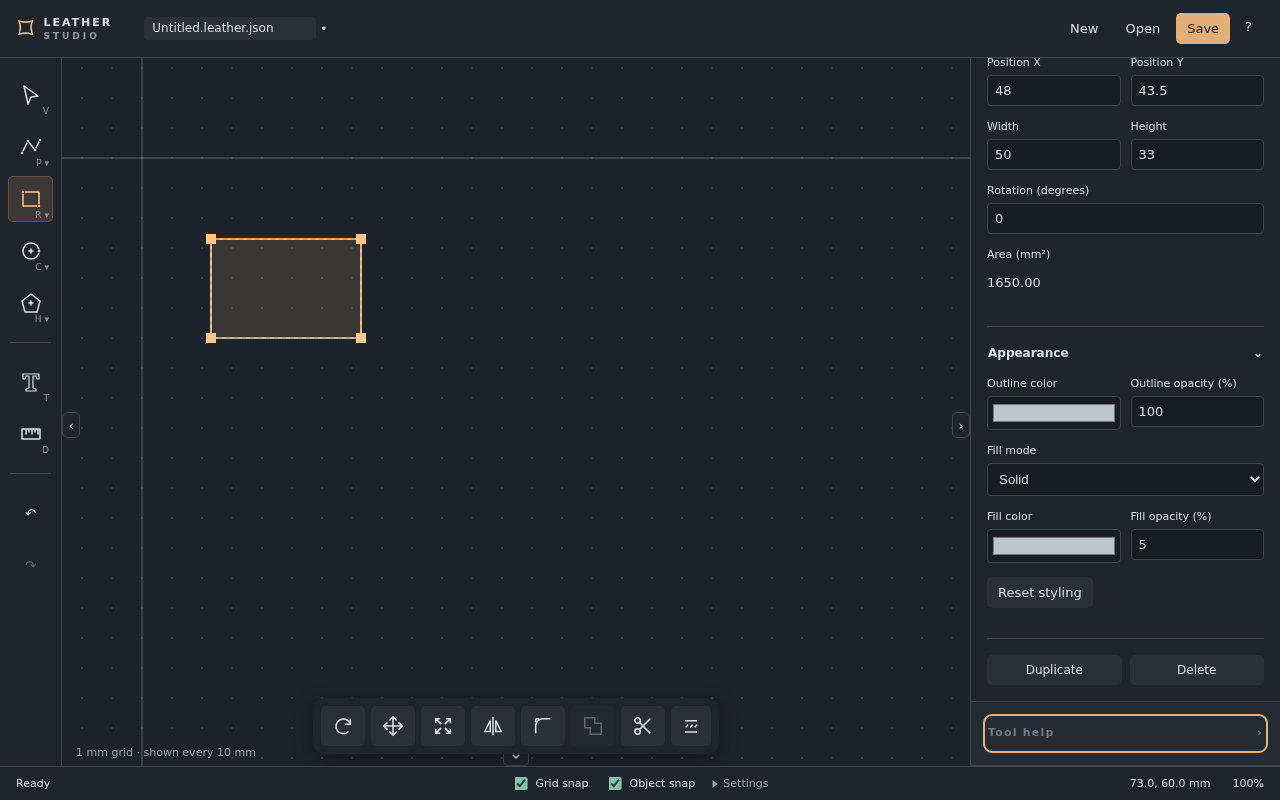
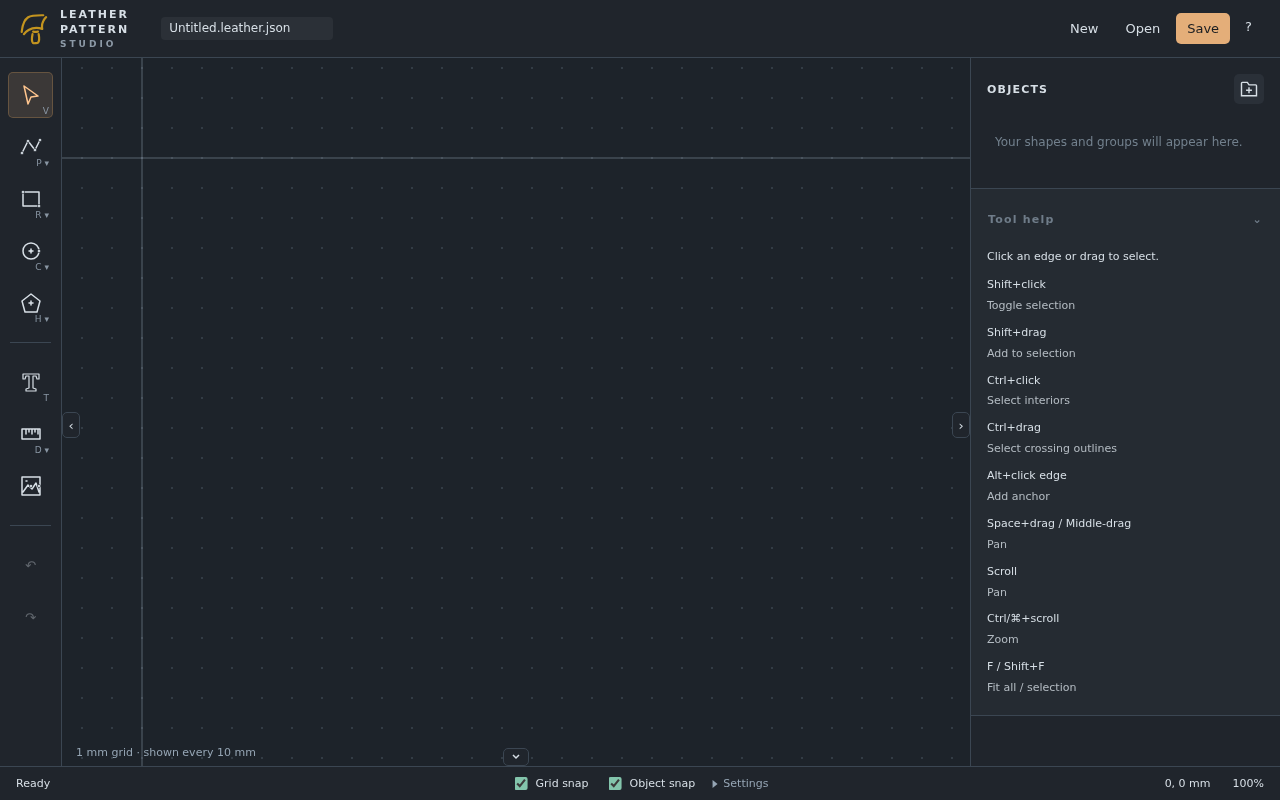
Rename app to Leather Pattern Studio and update branding

diff --git a/src/manual/Manual.vue b/src/manual/Manual.vue
@@ -60,7 +60,7 @@ md.renderer.rules.heading_open = (tokens, i, options, env, self) => {
 async function navigate() {
   route.value = location.hash.slice(1) || "home";
   query.value = "";
-  document.title = `${page.value?.title ?? "Page not found"} · Leather Studio manual`;
+  document.title = `${page.value?.title ?? "Page not found"} · Leather Pattern Studio manual`;
   await nextTick();
   const anchor = route.value.split("/")[1];
   if (anchor) document.getElementById(anchor)?.scrollIntoView();
@@ -76,7 +76,7 @@ onUnmounted(() => window.removeEventListener("hashchange", navigate));
 </script>
 <template>
   <header>
-    <a href="#home">Leather Studio · Manual</a
+    <a href="#home">Leather Pattern Studio · Manual</a
     ><a href="/" target="_blank" rel="noopener">Open editor ↗</a>
   </header>
   <div class="layout">

diff --git a/src/vue/App.vue b/src/vue/App.vue
@@ -1,5 +1,6 @@
 <script setup lang="ts">
 import { computed } from "vue";
+import brandIcon from "../assets/leather-studio-icon.svg?no-inline";
 import { editorHint } from "../editor/hint";
 import ConstructionMeasurements from "./ConstructionMeasurements.vue";
 import TransformToolbox from "./TransformToolbox.vue";
@@ -166,10 +167,11 @@ onMounted(() => {
   <main @focusin="hintFocus" @focusout="editing = ''">
     <header>
       <div class="brand">
-        <span class="brand-icon">⌑</span>
+        <img class="brand-icon" :src="brandIcon" alt="" width="32" height="32" />
         <strong>
           LEATHER
-          <span>STUDIO</span>
+          <span>PATTERN</span>
+          <span class="brand-subtitle">STUDIO</span>
         </strong>
       </div>
       <span class="document-name">

diff --git a/manual/index.html b/manual/index.html
@@ -1,9 +1,10 @@
 <!DOCTYPE html>
 <html lang="en">
+  <link rel="icon" type="image/png" href="/src/assets/leather-studio-favicon.png?no-inline" />
   <meta charset="UTF-8" /><meta
     name="viewport"
     content="width=device-width,initial-scale=1"
-  /><title>Leather Studio manual</title>
+  /><title>Leather Pattern Studio manual</title>
   <div id="root"></div>
   <script type="module" src="/src/manual/main.ts"></script>
 </html>

diff --git a/index.html b/index.html
@@ -1,7 +1,8 @@
 <html lang="en">
+  <link rel="icon" type="image/png" href="/src/assets/leather-studio-favicon.png?no-inline" />
   <meta charset="UTF-8" />
   <meta name="viewport" content="width=device-width,initial-scale=1" />
-  <title>Leather Pattern Designer</title>
+  <title>Leather Pattern Studio</title>
   <div id="root"></div>
   <script type="module" src="/src/main.ts"></script>
 </html>

diff --git a/src/style.css b/src/style.css
@@ -62,8 +62,9 @@ header {
   align-items: center;
 }
 .brand-icon {
-  color: #efba86;
-  font-size: 30px;
+  width: 32px;
+  height: 32px;
+  object-fit: contain;
 }
 .brand strong {
   font-size: 11px;
@@ -72,6 +73,8 @@ header {
 }
 .brand strong span {
   display: block;
+}
+.brand strong .brand-subtitle {
   color: #8d9aa7;
   font-size: 9px;
   letter-spacing: 3px;

diff --git a/docs/manual/workspace.md b/docs/manual/workspace.md
@@ -1,5 +1,7 @@
 # Workspace
 
+The leather-and-tool icon identifies Leather Pattern Studio in the header, with the three words stacked beside it. The editor and manual browser tabs use the filled gold-and-grey icon with a transparent background.
+
 The left toolbar selects drawing modes. Right-click or hold a grouped tool to open variants. Its icon remembers the last variant. Repeat its key to cycle; Shift reverses.
 
 Objects lists your shapes. Click to select; Shift+click toggles selection. Double-click an object name or press F2 while its row is focused to rename it. Enter applies; Esc cancels.

diff --git a/docs/manual/home.md b/docs/manual/home.md
@@ -1,6 +1,6 @@
 # User manual
 
-Leather Studio is a precision 2D editor. Dimensions use millimetres. Projects stay on your device.
+Leather Pattern Studio is a precision 2D editor. Dimensions use millimetres. Projects stay on your device.
 
 Start with [your first pattern](#getting-started), explore [drawing tools](#drawing), or consult the [keyboard reference](#shortcuts).
 

diff --git a/README.md b/README.md
@@ -1,4 +1,4 @@
-# Leather Studio
+# Leather Pattern Studio
 
 An offline-capable browser-based precision 2D pattern editor built with Vue 3, TypeScript, Canvas 2D and Rust/Wasm. Inspired by Plasticity's focused workspace; no 3D, accounts, server-side document processing, or installation required.
 
